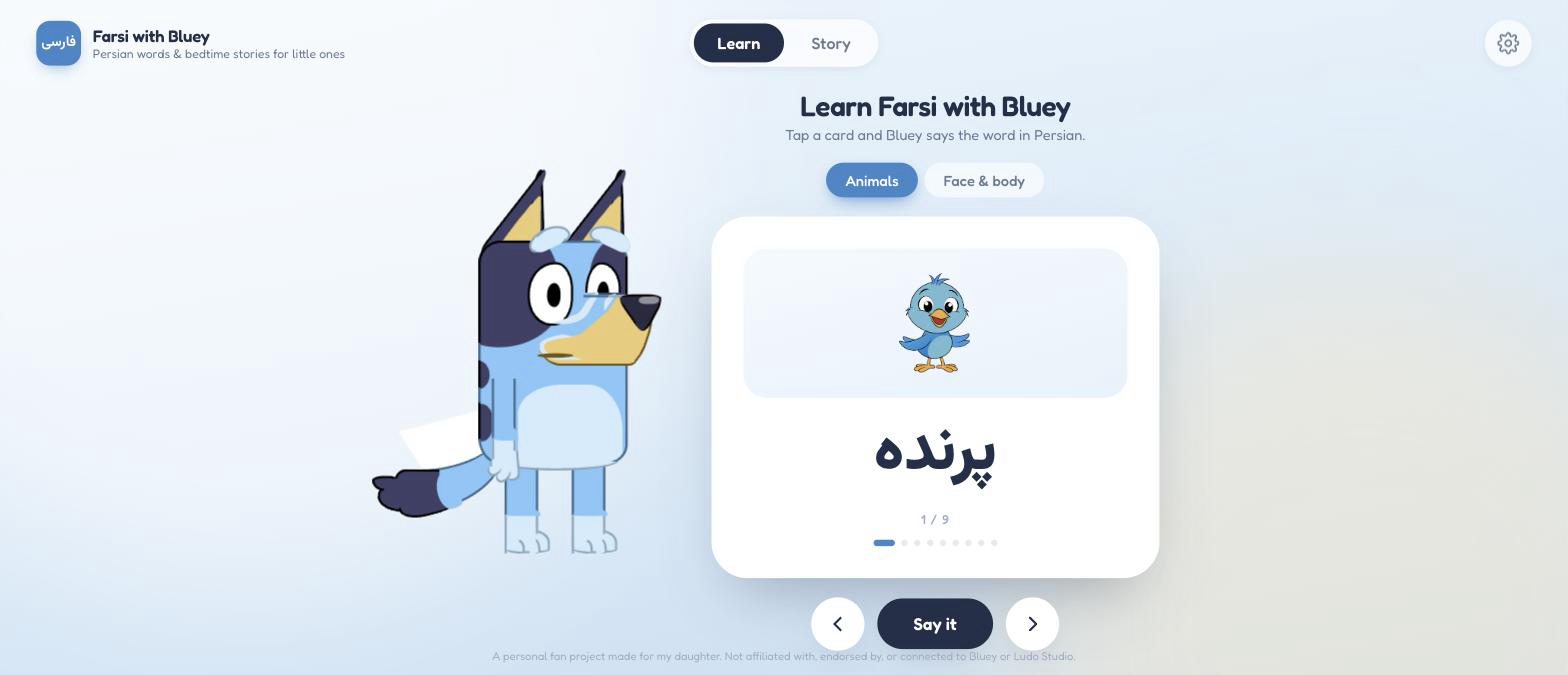
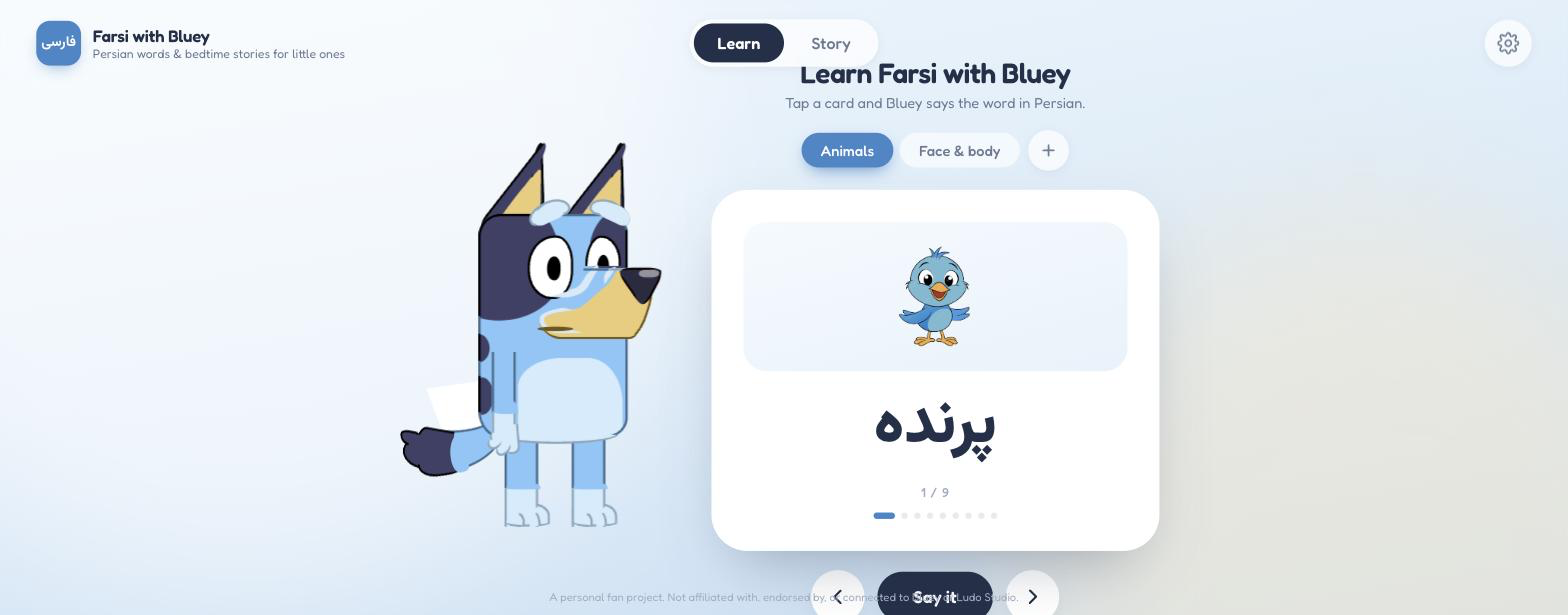
Move add-word button outside the card; rewrite README to promote, not apologize
The "+" for adding another word now sits outside the card's own box, to its
right, instead of floating on top of the card. Card and button share a flex
row that only reserves the button's space when it's actually visible, so the
built-in decks (where it never shows) keep the card at full width.

README: reframes "no build step, no framework" as a durability choice rather
than something to reassure the reader about, drops two sentences that stated
the obvious (no key in the repo, how the mouth animation works technically),
and adds a fourth screenshot plus a paragraph actually explaining card
generation — translate, illustrate, confirm — since it's now a headline
feature, not a footnote. "Adding vocabulary" now documents the in-app
collection/card flow instead of manual array edits; the two built-in decks
are noted as what ships by default.

Verified persistence for real before writing any of this: created a
collection, added a card, reloaded the page (a fresh JS runtime with no
in-memory state to fall back on), and both were still there, read back from
IndexedDB.

diff --git a/index.html b/index.html
@@ -148,31 +148,38 @@
         </button>
       </div>
 
-      <div class="card" id="card" onclick="sayWord()" role="button" tabindex="0"
-           aria-label="Hear this word">
-        <button class="card-add" id="card-add" onclick="openAddWordForCurrent(event)" aria-label="Add another word" hidden>
+      <!-- The card and the "add another word" control are side by side, so
+           adding never covers or crowds the card itself. -->
+      <div class="card-row">
+        <div class="card-slot">
+          <div class="card" id="card" onclick="sayWord()" role="button" tabindex="0"
+               aria-label="Hear this word">
+            <button class="card-del" id="card-del" onclick="deleteCurrentCard(event)" aria-label="Remove this word" hidden>
+              <svg viewBox="0 0 24 24" fill="none" stroke="currentColor" stroke-width="2"
+                   stroke-linecap="round"><path d="M6 6l12 12M18 6L6 18"/></svg>
+            </button>
+            <div class="card-art">
+              <img id="disp-emoji" src="pictures/animals/bird.png" alt="">
+            </div>
+            <p class="card-word" id="disp-word" dir="rtl" lang="fa">پرنده</p>
+            <div class="card-foot">
+              <span class="counter" id="counter">1 / 9</span>
+              <div class="dots" id="dots"></div>
+            </div>
+          </div>
+
+          <!-- Shown instead of the card when a collection has nothing in it yet -->
+          <div class="card card-empty" id="card-empty" onclick="openAddWordForCurrent(event)" role="button" tabindex="0" hidden>
+            <span class="card-empty-icon">＋</span>
+            <p>Add your first word</p>
+            <p class="card-empty-sub">Any word, in English or Farsi</p>
+          </div>
+        </div>
+
+        <button class="card-add-outside" id="card-add" onclick="openAddWordForCurrent(event)" aria-label="Add another word" hidden>
           <svg viewBox="0 0 24 24" fill="none" stroke="currentColor" stroke-width="2.3"
                stroke-linecap="round" stroke-linejoin="round"><path d="M12 5v14M5 12h14"/></svg>
         </button>
-        <button class="card-del" id="card-del" onclick="deleteCurrentCard(event)" aria-label="Remove this word" hidden>
-          <svg viewBox="0 0 24 24" fill="none" stroke="currentColor" stroke-width="2"
-               stroke-linecap="round"><path d="M6 6l12 12M18 6L6 18"/></svg>
-        </button>
-        <div class="card-art">
-          <img id="disp-emoji" src="pictures/animals/bird.png" alt="">
-        </div>
-        <p class="card-word" id="disp-word" dir="rtl" lang="fa">پرنده</p>
-        <div class="card-foot">
-          <span class="counter" id="counter">1 / 9</span>
-          <div class="dots" id="dots"></div>
-        </div>
-      </div>
-
-      <!-- Shown instead of the card when a collection has nothing in it yet -->
-      <div class="card card-empty" id="card-empty" onclick="openAddWordForCurrent(event)" role="button" tabindex="0" hidden>
-        <span class="card-empty-icon">＋</span>
-        <p>Add your first word</p>
-        <p class="card-empty-sub">Any word, in English or Farsi</p>
       </div>
 
       <div class="deck-nav">

diff --git a/style.css b/style.css
@@ -421,24 +421,36 @@ body[data-mode="play"]  #panel-play { display: flex; }
 .card-del:hover { color: var(--coral); background: #FFF3EF; transform: scale(1.08); }
 
 /* Add-another-word, mirrored to the opposite corner from delete. */
-.card-add[hidden] { display: none; }
-.card-add {
-  position: absolute;
-  top: 12px;
-  left: 12px;
-  z-index: 2;
+/* The card and its "add another word" button sit side by side, outside the
+   card's own box — the button only takes up space when it's actually shown
+   (display:none removes it from the flex row), so the card is full width
+   again on the built-in decks where the button never appears. */
+.card-row {
+  display: flex;
+  align-items: center;
+  gap: 14px;
+  width: 100%;
+}
+.card-slot {
+  flex: 1;
+  min-width: 0;
+}
+
+.card-add-outside[hidden] { display: none; }
+.card-add-outside {
+  flex-shrink: 0;
   display: grid;
   place-items: center;
-  width: 30px;
-  height: 30px;
+  width: 46px;
+  height: 46px;
   border-radius: 50%;
-  color: var(--ink-faint);
-  background: rgba(255, 255, 255, 0.85);
-  box-shadow: var(--shadow-sm);
-  transition: color 180ms, background 180ms, transform 180ms;
+  color: var(--blue);
+  background: var(--paper);
+  box-shadow: var(--shadow-md);
+  transition: color 180ms, transform 180ms;
 }
-.card-add svg { width: 14px; height: 14px; }
-.card-add:hover { color: var(--blue); background: #F0F7FE; transform: scale(1.08); }
+.card-add-outside svg { width: 19px; height: 19px; }
+.card-add-outside:hover { color: var(--blue-deep); transform: scale(1.1); }
 
 /* "My Words" with nothing in it yet — an invitation, not a blank card. */
 .card-empty[hidden] { display: none; }

diff --git a/README.md b/README.md
@@ -1,33 +1,42 @@
 # Farsi with Bluey
 
-A Persian-language app for kids, built around a CSS-drawn Bluey who speaks. Two things
-it's for:
+A Persian-language learning app built around a CSS-drawn Bluey who actually talks — real
+ElevenLabs voice, mouth moving to the audio, not a recording. Three things it does:
 
-**Teach your kid Farsi.** Set it up in a couple of minutes and let your child tap
-through animal and body-part flashcards. Bluey says each word aloud in Persian, mouth
-moving with the audio.
+**Teach your kid Farsi.** Animal and body-part flashcards, ready out of the box. Tap a
+card, Bluey says the word in Persian.
 
-**Tell them a story your way.** Pick a focus — potty training, bedtime, brushing teeth,
-trying new food, sharing, big feelings — or type your own idea, in English or Persian.
-Bluey narrates a short Farsi story built around it, while your kid just watches him.
+**Grow the vocabulary yourself.** Create a collection — Colors, Family, whatever your
+kid is into this week — and add words to it by typing them, in English or Persian.
+Bluey translates it, generates an illustration for it, and learns to say it, all in one
+step.
+
+**Tell a bedtime story your way.** Pick a focus — potty training, bedtime, brushing
+teeth, trying new food, sharing, big feelings — or type your own idea. Bluey narrates a
+short Farsi story built around it while your kid just watches him, no reading required.
 
 ## Screenshots
 
-| Learn | Story setup | Story time |
-|---|---|---|
-| ![Learn screen](docs/screenshot-learn.png) | ![Story setup screen](docs/screenshot-story-setup.png) | ![Story playing screen](docs/screenshot-story-playing.png) |
+![Learn screen](docs/screenshot-learn.png)
 
-## Requirements
+![Adding a word — Bluey translates it, illustrates it, and asks for confirmation before saving](docs/screenshot-add-word.png)
 
-**Runtime — nothing to install.** The frontend is plain HTML/CSS/ES modules and the
-server (`server.js`) uses only the Node standard library. No `npm install`, no
-framework, no build step.
+![Story setup screen](docs/screenshot-story-setup.png)
+
+![Story playing screen](docs/screenshot-story-playing.png)
+
+## How it's built
+
+Static HTML/CSS/ES modules on the frontend, a Node server with no framework and no
+dependencies. That's a deliberate choice, not a limitation: nothing to `npm install`,
+no build step, no version drift — clone it and it runs, on a laptop or a $6/month
+droplet, exactly the same way five years from now.
 
 | Needed | Version | Why |
 |---|---|---|
 | [Node.js](https://nodejs.org) | 18+ | Runs `server.js`. Needs built-in `fetch`. |
-| [ElevenLabs API](https://elevenlabs.io/docs) key | — | Text-to-speech. Needs `text_to_speech` and `voices_read` permissions. |
-| [OpenAI API](https://platform.openai.com/api-keys) key | — | Writes the Farsi stories. Only needed for the Story tab. |
+| [ElevenLabs API](https://elevenlabs.io/docs) key | — | Voices Bluey. Needs `text_to_speech` and `voices_read` permissions. |
+| [OpenAI API](https://platform.openai.com/api-keys) key | — | Writes the stories and generates card illustrations. |
 
 ## How to run
 
@@ -35,7 +44,7 @@ framework, no build step.
 git clone https://github.com/sogandgh/farsi-bluey.git
 cd farsi-bluey
 export ELEVENLABS_API_KEY=sk_your_key_here
-export OPENAI_API_KEY=sk-your_key_here      # only needed for Story mode
+export OPENAI_API_KEY=sk-your_key_here
 node server.js
 ```
 
@@ -43,30 +52,30 @@ Open **http://localhost:8000**. Voices load automatically from your ElevenLabs a
 change which one Bluey uses from the ⚙ panel.
 
 `PORT` overrides the port (default `8000`); `OPENAI_MODEL` overrides the story model
-(default `gpt-5-mini`).
-
-> The API keys are read from the environment by the server and never reach the browser.
-> There is no key anywhere in this repo and no config file to put one in.
+(default `gpt-5-mini`); `OPENAI_IMAGE_MODEL` overrides the illustration model (default
+`gpt-image-1-mini`).
 
 To reach it from a phone on the same wifi, use your computer's LAN IP instead of
 `localhost`, e.g. `http://10.0.0.108:8000`.
 
 ## Adding vocabulary
 
-Add an entry to the relevant array in `app.js`, and drop the image in `pictures/`:
+The app ships with two ready-made decks — animals and face & body. Beyond that, add
+words from inside the app:
 
-```js
-{ img: 'pictures/animals/duck.png', word: 'اردک' }
-```
+1. Tap **+** next to the deck tabs and name a new collection.
+2. Tap the **+** beside the card to add a word to it — type it in English or Persian.
+3. Bluey shows you the translation and the picture he generated. Confirm it, or try
+   another word.
 
-No recording needed — the word is synthesised the first time it's tapped, then cached.
+Every collection and card is saved in the browser (IndexedDB) and reloads with the app.
+No code to edit, no image to source, no recording to make.
 
 ## Notes
 
-Persian is only supported by the `eleven_v3` model, so the TTS model is fixed. Bluey's
-mouth is driven by the loudness of the audio itself (a Web Audio `AnalyserNode`), not by
-a canned animation.
+Persian is only supported by ElevenLabs' `eleven_v3` model, so that's the TTS model this
+app is built around.
 
 Bluey is a creation of [Ludo Studio](https://www.ludostudio.com.au/). This is an
-unaffiliated personal project, not endorsed by or connected to the
-rights holders, and not for commercial use.
+unaffiliated personal project, not endorsed by or connected to the rights holders, and
+not for commercial use.
